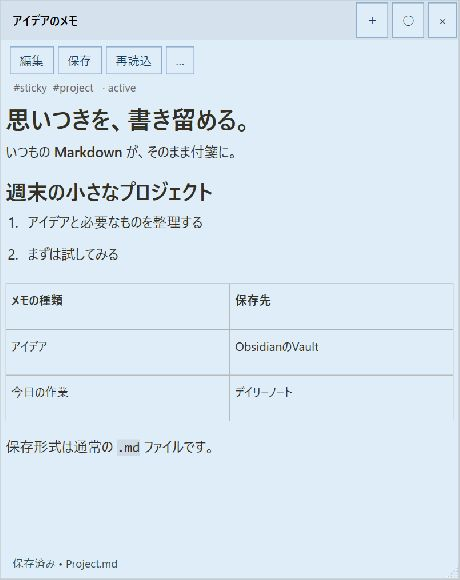
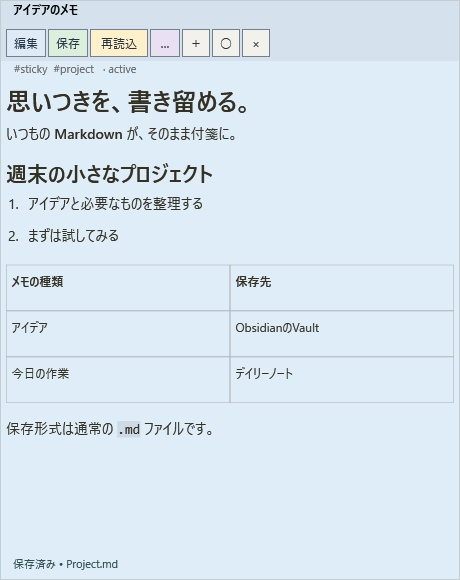
Prepare v0.0.2 release and refresh public documentation

diff --git a/docs/RELEASE-NOTES.md b/docs/RELEASE-NOTES.md
@@ -1,49 +1,57 @@
-# Markdown Sticky Notes v0.0.1
+# Markdown Sticky Notes v0.0.2
 
 ## 日本語
 
-Windows 10 / 11（x64）向けの初回公開版です。通常のMarkdownファイルをデスクトップの付箋として表示・編集できます。
+Windows 10 / 11（x64）向け。Markdownの編集操作、デイリーノートの選択、保存フォルダ変更時の移行を改善しました。
 
-主な機能:
+### 主な変更
 
-- 複数の付箋、サイズ変更、最前面表示、配置の復元
-- Markdown表示・編集、チェックリスト、タグ・タイトル・状態・色の管理
-- Obsidian Vault連携、指定見出しの表示・編集、デイリーノートの日付切り替え
-- Google Calendarの予定表示・件名と説明の編集（任意・要OAuth設定）
-- 外部変更の検出、競合時の上書き防止、書込み前のバックアップ
+- 本文エリアのクリックで編集開始。編集欄と閲覧表示が重なり、文字を編集できない問題を修正しました。
+- 編集欄からフォーカスが外れると、保存・破棄・編集続行を確認します。設定で確認なしの自動保存も選べます（初期状態はオフ）。
+- 編集・保存・再読込・「…」をほかの操作ボタンと同じ列に配置し、背景色を分けました。
+- 固定ノートとデイリーノートの選択メニューを分離。固定ノートはフォルダ／ファイル選択から開けます。
+- 共通の「表示する見出し名」で既存見出しを選択できます。新しい名前は「表示」時に元ファイルの末尾へ追加し、空欄なら本文を全表示します。両画面の末尾で対象範囲をプレビューできます。
+- デイリーノートは `year`・`month`・`day` の日時タグ付き正規表現に統一。設定への入力中に今日の一致ファイル名を表示します。空欄は既定例で補完し、例の挿入ボタンは置き換え前に確認します。
+- 付箋の保存先とデイリーノートのフォルダが同期してしまう問題を修正。保存先を変えると、既存Markdownをサブフォルダごと移行するか確認します。移行先の既存ファイルは上書きしません。
 
-インストール:
+### インストール・更新
 
-1. Assetsの **StickyNotes-win-x64.zip** をダウンロードします。
-2. ZIPを「すべて展開」し、**Install.cmd** をダブルクリックします。
-3. スタートメニューの **Markdown Sticky Notes** から起動します。
+1. 更新の場合は通知領域の「終了」でアプリを終了します。
+2. Assetsの **StickyNotes-win-x64.zip** をダウンロードし、別のフォルダへ「すべて展開」します。
+3. **Install.cmd** を実行し、スタートメニューの **Markdown Sticky Notes** から起動します。
 
-管理者権限や.NETの追加インストールは不要です。インストールせず、展開先の `StickyNotes.exe` から起動することもできます。EXE以外の同梱ファイルも保持してください。更新前は通知領域の「終了」でアプリを終了します。
+管理者権限や.NETの追加インストールは不要です。インストールせず、展開先の `StickyNotes.exe` から起動することもできます。EXE以外の同梱ファイルも保持してください。既存のノート・設定・バックアップは保持されます。
 
-アプリは未署名で、画面・操作ボタンは日本語です。Google Calendarを使わなければ認証は不要です。チェックサムは `StickyNotes-win-x64.zip.sha256` に記載しています。
+**0.0.1から更新する場合:** 設定で両方のフォルダと、今日の一致ファイル名を確認してください。既存の日付書式 `yyyy-MM-dd`、`yyyy/MM/yyyy-MM-dd` と、それぞれに `(ddd)` / `(dddd)` を付けた形式は自動変換します。その他の独自書式は正規表現へ手動修正が必要です。変換だけでノートを移動・作成することはありません。保存フォルダを変更して「はい」を選ぶと旧フォルダ内のすべてのMarkdownが移行対象になるため、移行先と範囲を確認してください。
 
-[使い方](https://github.com/AvocadoWasabi/StickyNotes/blob/v0.0.1/README.ja.md) · [バージョン履歴](https://github.com/AvocadoWasabi/StickyNotes/blob/v0.0.1/CHANGELOG.ja.md)
+アプリは未署名で、画面・操作ボタンは日本語です。Google Calendarは任意で、利用者自身のOAuth設定が必要です。SHA256チェックサムは `StickyNotes-win-x64.zip.sha256` に記載しています。
+
+[使い方](https://github.com/AvocadoWasabi/StickyNotes/blob/v0.0.2/README.ja.md) · [変更履歴](https://github.com/AvocadoWasabi/StickyNotes/blob/v0.0.2/CHANGELOG.ja.md)
 
 ## English
 
-First public release for **Windows 10 / 11 (x64)**. Display and edit ordinary Markdown files as desktop sticky notes.
+For **Windows 10 / 11 (x64)**. This release improves Markdown editing, daily-note selection, and migration when changing the notes folder.
 
-Features:
+### Changes
 
-- Multiple resizable notes, always-on-top mode, and restored window positions
-- Markdown viewing and editing, checklists, tags, titles, status, and colors
-- Obsidian vault integration, linked heading sections, and daily note switching
-- Optional Google Calendar event viewing and title/description editing with your own OAuth configuration
-- External-change detection, conflict protection, and pre-write backups
+- Click the note body to start editing. Fix overlapping reading and editing views that prevented text editing.
+- Choose to save, discard, or keep editing when focus leaves the editor. Optional saving without confirmation is available in Settings and is off by default.
+- Place Edit, Save, Reload, and More in the same row as the other note controls, with distinct background colors.
+- Separate fixed-note and daily-note selection menus. Open fixed notes through folder/file pickers.
+- Choose existing headings using a shared editable selector. A new name is appended to the source file on Display; a blank field displays the whole body. Preview the selected range at the end of either dialog.
+- Use regular expressions with named `year`, `month`, and `day` tags for daily notes. Settings show today's matching filename while you type. Blank expressions receive a default; inserting the example asks before replacing existing text.
+- Fix the notes folder and daily-note folder incorrectly sharing a value. Changing the notes folder asks whether to move existing Markdown, including subfolders. Existing destination files are never overwritten.
 
-Installation:
+### Installation and updates
 
-1. Download **StickyNotes-win-x64.zip** under Assets.
-2. Extract the entire ZIP and double-click **Install.cmd**.
-3. Open **Markdown Sticky Notes** from the Start menu.
+1. If updating, exit the app using `終了` (Exit) in its notification-area menu.
+2. Download **StickyNotes-win-x64.zip** under Assets and extract the entire ZIP to a separate folder.
+3. Run **Install.cmd**, then open **Markdown Sticky Notes** from the Start menu.
 
-No administrator privileges or separate .NET installation are required. For portable use, run `StickyNotes.exe` from the extracted folder and keep all accompanying files. Exit the app from its notification-area menu before updating.
+No administrator privileges or separate .NET installation are required. For portable use, run `StickyNotes.exe` from the extracted folder and keep all accompanying files. Existing notes, settings, and backups are retained.
 
-The app is unsigned and its controls are currently in Japanese. Google sign-in is unnecessary unless you use Calendar integration. The SHA256 checksum is provided in `StickyNotes-win-x64.zip.sha256`.
+**Updating from 0.0.1:** check both folders and today's matching filename in Settings. Existing date formats `yyyy-MM-dd` and `yyyy/MM/yyyy-MM-dd`, including variants with `(ddd)` / `(dddd)`, are converted automatically. Other custom formats need manual conversion to a regular expression. This conversion does not move or create notes. If you change the notes folder and choose Yes, all Markdown within the old folder is included in migration; check the destination and scope first.
 
-[User guide](https://github.com/AvocadoWasabi/StickyNotes/blob/v0.0.1/README.md) · [Changelog](https://github.com/AvocadoWasabi/StickyNotes/blob/v0.0.1/CHANGELOG.md)
+The app is unsigned and its controls are currently in Japanese. Google Calendar is optional and requires your own OAuth configuration. The SHA256 checksum is provided in `StickyNotes-win-x64.zip.sha256`.
+
+[User guide](https://github.com/AvocadoWasabi/StickyNotes/blob/v0.0.2/README.md) · [Changelog](https://github.com/AvocadoWasabi/StickyNotes/blob/v0.0.2/CHANGELOG.md)

diff --git a/README.md b/README.md
@@ -10,7 +10,7 @@ Keep tasks, notes, or a section of today's daily note on your desktop and edit t
 
 ## Screenshots
 
-Actual app windows with English sample notes. The app's controls are currently in Japanese. Click an image to view it at full size.
+Version 0.0.2 note views rendered with the app's WPF controls and English sample notes. The app's controls are currently in Japanese. Click an image to view it at full size.
 
 | Checklists at hand | Markdown notes | Linked daily notes |
 | :---: | :---: | :---: |
@@ -42,7 +42,7 @@ Requires **Windows 10 / 11 (x64)**. No administrator privileges, separate .NET i
 4. Double-click `Install.cmd` in the extracted folder.
 5. Launch **Markdown Sticky Notes** from the Start menu.
 
-The installer places the app in `%LOCALAPPDATA%\Programs\MarkdownStickyNotes`. It does not enable automatic startup. [Download v0.0.1](https://github.com/AvocadoWasabi/StickyNotes/releases/tag/v0.0.1).
+The installer places the app in `%LOCALAPPDATA%\Programs\MarkdownStickyNotes`. It does not enable automatic startup. [Download v0.0.2](https://github.com/AvocadoWasabi/StickyNotes/releases/tag/v0.0.2).
 
 For portable use, run `StickyNotes.exe` directly from the extracted folder. Keep all accompanying files in either case. The app is unsigned; if Windows displays a warning, check the download source and file before proceeding.
 
@@ -53,6 +53,8 @@ Right-click the notification-area icon and select `設定` (Settings), then choo
 ### Update and uninstall
 
 To update, select `終了` (Exit) from the notification-area menu, extract the new ZIP to a separate folder, and run `Install.cmd`. Your notes and settings are retained.
+
+**Updating from 0.0.1:** daily-note matching now uses named date tags and regular expressions. Documented date formats are converted automatically; check the matching filename in Settings and correct other custom formats manually. The notes folder and daily-note folder are now saved independently, so check both if they were previously mixed up. Saving on focus loss without confirmation is optional and off by default. See the [0.0.2 changelog](CHANGELOG.md) for all changes.
 
 To uninstall, exit the app, delete `%LOCALAPPDATA%\Programs\MarkdownStickyNotes`, and remove its Start menu shortcut. You can locate the shortcut using **Open file location** from its context menu. Settings, credentials, and backups remain in `%LOCALAPPDATA%\StickyNotes`; Markdown files remain in the folder you selected, or `Documents/StickyNotesData` by default. Review any data you want to keep before deleting it separately.
 
@@ -84,6 +86,10 @@ Edit, Save, Reload, More, New, Pin, and Close share one row below the title. Edi
 | `… → アプリを終了`, or notification-area `終了` | Exit the app |
 
 The app saves note positions, sizes, and always-on-top settings as notes move and when you exit, then restores them on the next launch. It supports multiple monitors, negative screen coordinates, and PerMonitorV2 DPI. Notes on a disconnected display are moved back onto an available screen. Unsaved changes trigger a confirmation before exit.
+
+Click body text or blank space in the body area to enter the Markdown editor. `編集` (Edit) and `Ctrl+E` also work. Checkboxes, links, and scrollbars keep their own actions without entering editing. Select `保存` (Save) or press `Ctrl+S` to save and return to reading. Selecting Edit again preserves your draft.
+
+When focus leaves the editor for another control or application, changed text triggers a save dialog: **Yes** saves, **No** discards and reloads, and **Cancel** keeps the draft for continued editing. Unchanged text does not prompt. To save without confirmation, enable `編集欄からフォーカスが外れたら、確認せず自動保存する` in Settings and save the setting; it defaults to off. Automatic saves still create backups and check for external changes. A failed save reports the error and retains your input. The editor's context menu does not trigger this confirmation. Closing a note or exiting the app keeps the existing unsaved-change confirmation.
 
 ## Storage and Obsidian
 
@@ -150,10 +156,6 @@ If the source changes externally before Display, the app asks you to reload with
 A section starts immediately after the selected heading and ends before the next heading at the same or a higher level. Subheadings are included. Other sections and YAML front matter are preserved. Duplicate matching headings prevent editing to avoid ambiguity. Headings inside fenced code are ignored. Use `#`-style (ATX) headings.
 
 When the date changes, the app switches to today's file. If you are editing, switching waits until you save or reload. A missing target file or heading produces an error. Files are not created automatically; new headings are added only when you enter a new name in the selection dialog and select Display. Creating them in Obsidian also makes them appear on a subsequent refresh.
-
-Click body text or blank space in the body area to enter the Markdown editor. `編集` (Edit) and `Ctrl+E` also work. Checkboxes, links, and scrollbars keep their own actions without entering editing. Select `保存` (Save) or press `Ctrl+S` to save and return to reading. Selecting Edit again preserves your draft.
-
-When focus leaves the editor for another control or application, changed text triggers a save dialog: **Yes** saves, **No** discards and reloads, and **Cancel** keeps the draft for continued editing. Unchanged text does not prompt. To save without confirmation, enable `編集欄からフォーカスが外れたら、確認せず自動保存する` in Settings and save the setting; it defaults to off. Automatic saves still create backups and check for external changes. A failed save reports the error and retains your input. The editor's context menu does not trigger this confirmation. Closing a note or exiting the app keeps the existing unsaved-change confirmation.
 
 ## Google Calendar
 

diff --git a/docs/SCREENSHOTS.md b/docs/SCREENSHOTS.md
@@ -1,8 +1,8 @@
 # 紹介用スクリーンショット / Screenshots
 
-2026-10-05に、実際のWindowsアプリでサンプルのMarkdownを表示して撮影しました。UIの描き直しや合成は行っていません。個人のノート・認証情報は使用していません。
+2026-10-05に、バージョン0.0.2のWPFコントロールでサンプルMarkdownを描画して更新しました。付箋の内容領域を画像化しており、デスクトップのキャプチャではありません。個人のノート・設定・認証情報は使用していません。
 
-Captured from the running Windows app on 2026-10-05 using fictional Markdown samples. The interface has not been redrawn or composited. No personal notes or credentials are included. English screenshots use English note content with the app's current Japanese controls.
+Updated on 2026-10-05 by rendering fictional Markdown samples with version 0.0.2's WPF controls. These images show each note's content area, rather than a desktop capture. No personal notes, settings, or credentials are included. English images use English note content with the app's current Japanese controls.
 
 | 内容 / Content | 日本語 / Japanese | English |
 | --- | --- | --- |
@@ -14,7 +14,7 @@ Captured from the running Windows app on 2026-10-05 using fictional Markdown sam
 
 Each image is a 460 × 580 px JPEG. README thumbnails link to the original images.
 
-## 再現手順 / Reproduce the screenshots
+## 同じサンプルをアプリで表示 / View the samples in the app
 
 Windowsでリポジトリのルートから実行します。起動中のSticky Notesがあれば、未保存の内容を保存して通知領域の「終了」で終了してください。アプリは同時に複数のプロセスを起動できません。
 

diff --git a/CHANGELOG.ja.md b/CHANGELOG.ja.md
@@ -8,6 +8,12 @@
 
 ## 未リリース / Unreleased
 
+変更はまだありません。
+
+## [0.0.2](https://github.com/AvocadoWasabi/StickyNotes/releases/tag/v0.0.2) — 2026-10-05
+
+Markdown編集、ノート選択画面、日時タグ付き正規表現によるデイリーノート指定、保存先変更時の移行を改善しました。0.0.1から更新したら、デイリーノートの一致結果と両方のフォルダ設定を確認してください。独自の日付書式は手動修正が必要な場合があります。
+
 ### 修正
 
 - Markdown編集時に透明な入力欄と閲覧プレビューが重なる問題を修正。表示を切り替えて入力欄へフォーカスを移し、「編集」の再クリックでも未保存の入力を保持。

diff --git a/CHANGELOG.md b/CHANGELOG.md
@@ -8,6 +8,12 @@ See the [README](README.md) for usage and [GitHub Releases](https://github.com/A
 
 ## Unreleased
 
+No changes yet.
+
+## [0.0.2](https://github.com/AvocadoWasabi/StickyNotes/releases/tag/v0.0.2) — 2026-10-05
+
+Easier Markdown editing, separate note-linking dialogs, tagged daily-note matching, and safer folder changes. When updating from 0.0.1, check the daily-note match and both folder settings; custom date formats may need manual correction.
+
 ### Fixed
 
 - Stop the reading preview from overlapping the transparent Markdown editor. Switch views, focus the input after layout, and preserve unsaved text when Edit is selected again.
